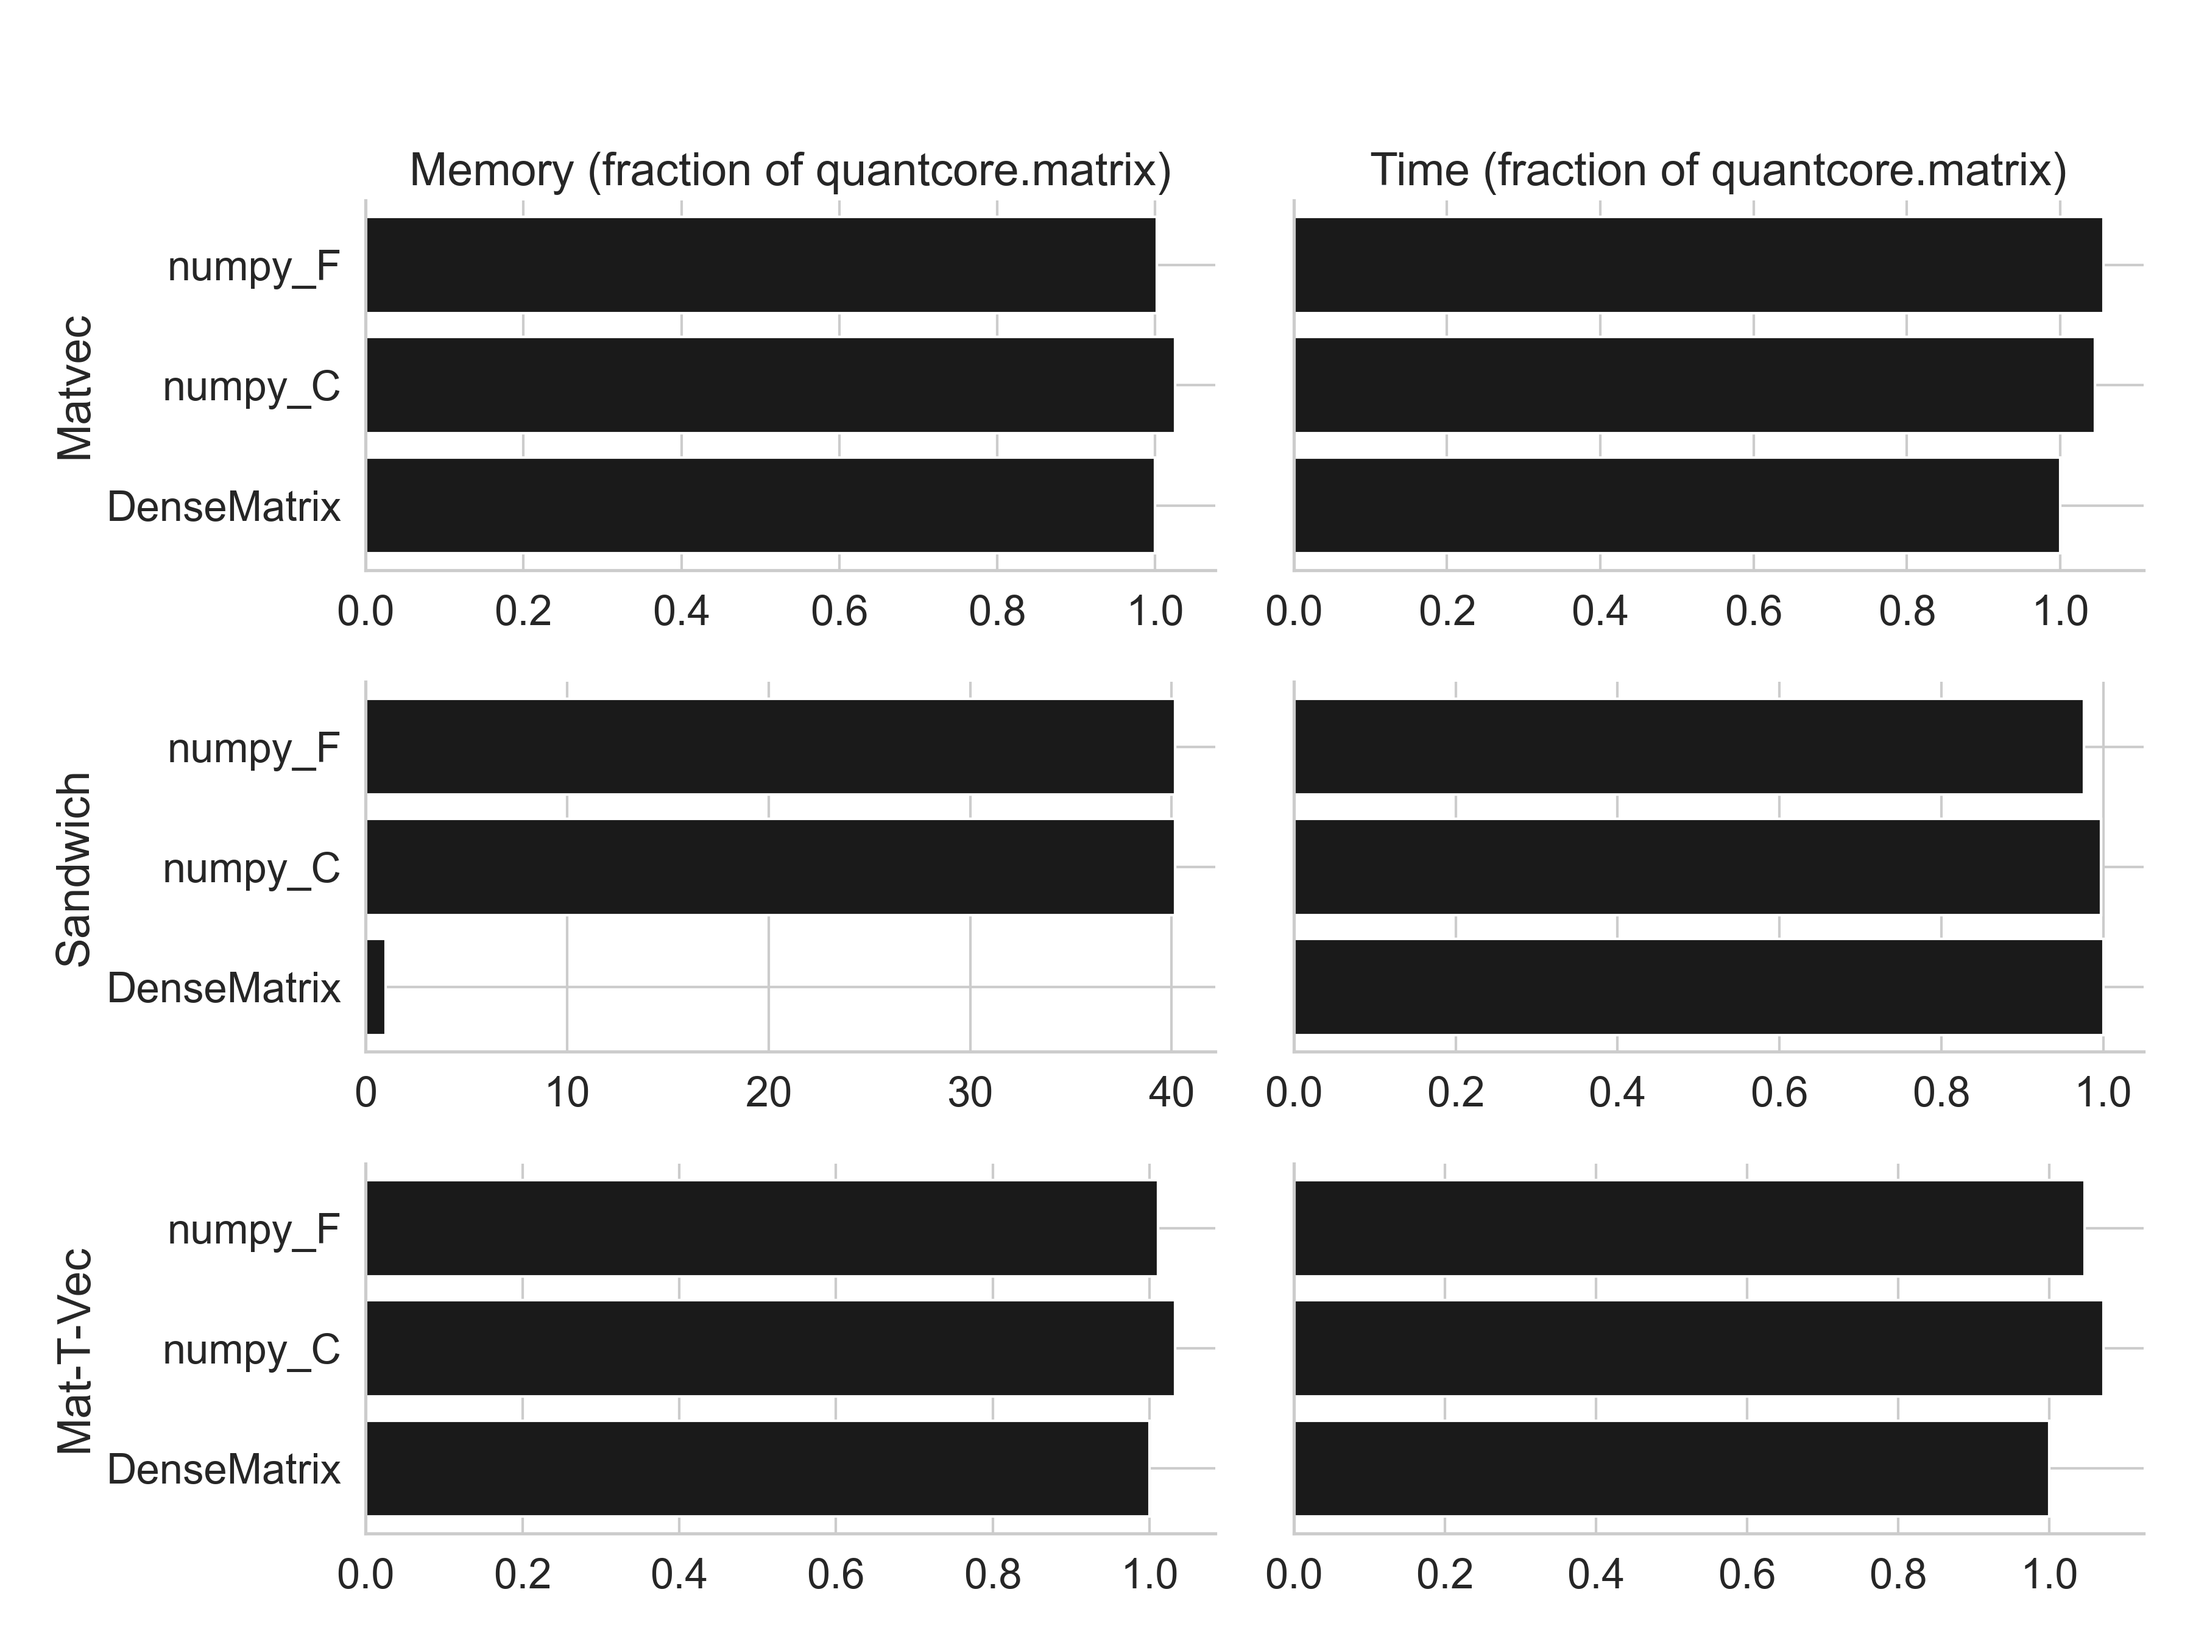
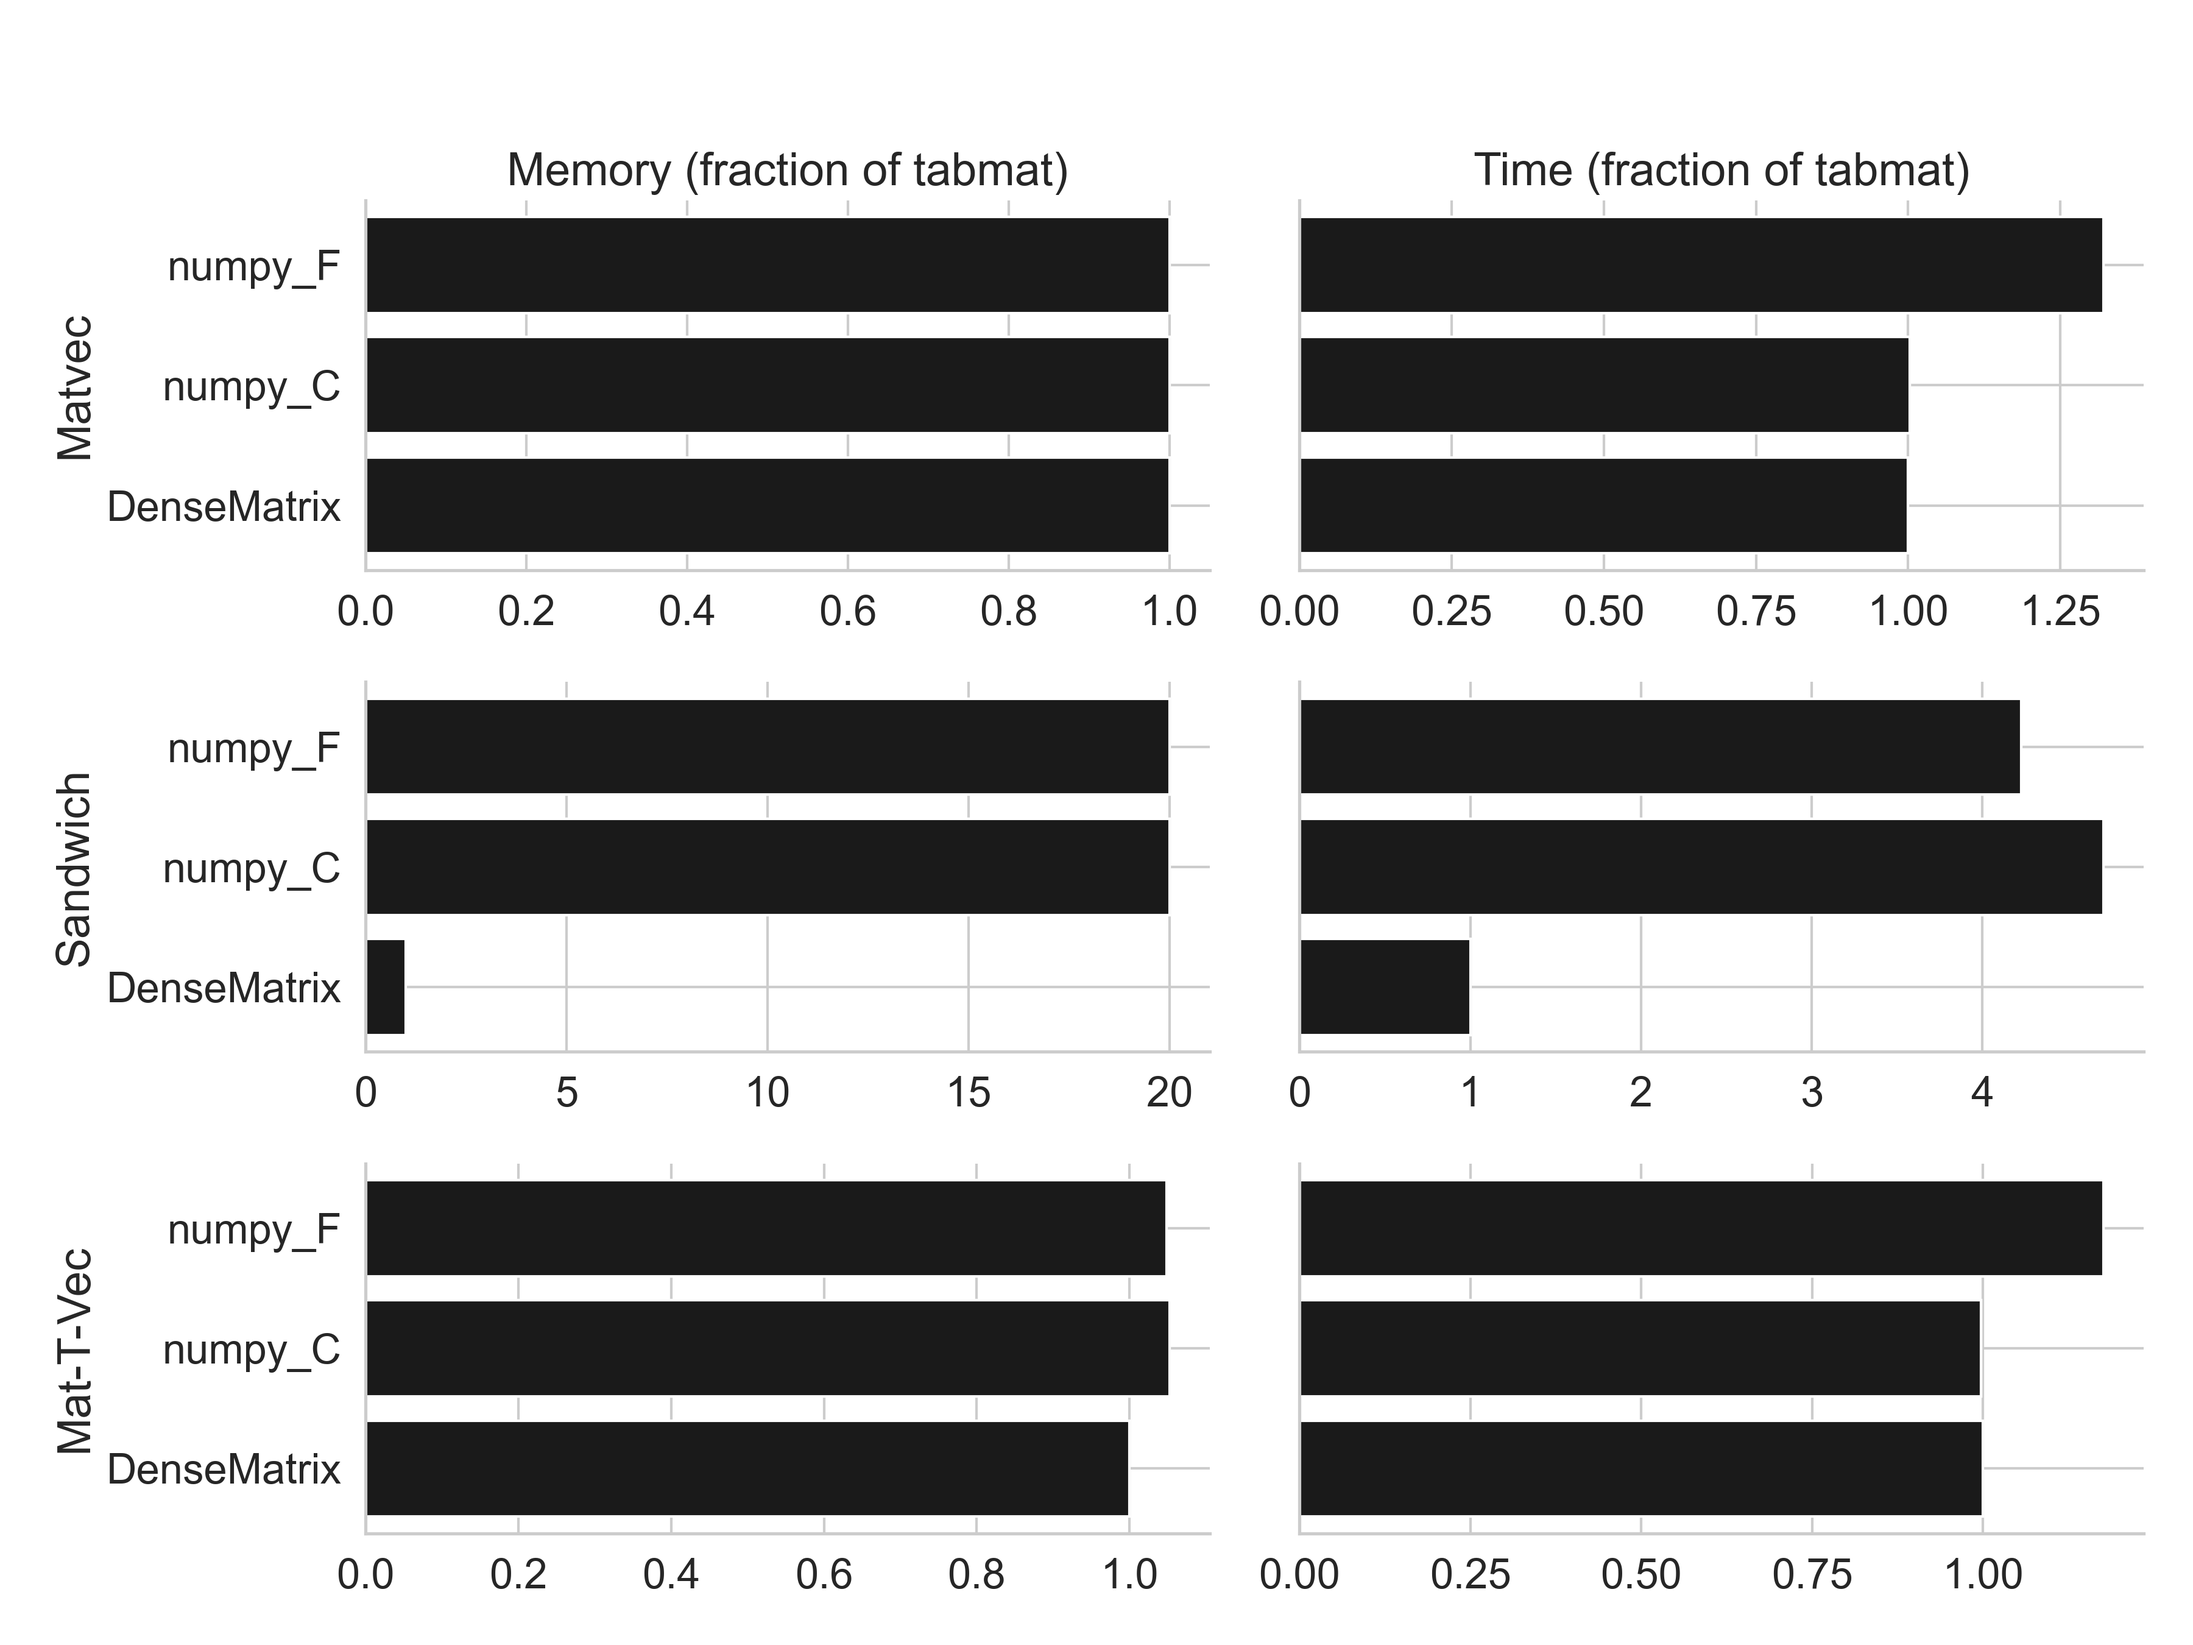
It makes more sense to benchmark on a fairly narrow dense matrix since that better represents the real world use case when in a SplitMatrix.

diff --git a/src/tabmat/benchmark/generate_matrices.py b/src/tabmat/benchmark/generate_matrices.py
@@ -1,3 +1,4 @@
+import os
 import pickle
 
 import click
@@ -91,7 +92,7 @@ def _get_matrix_path(name):
 def get_all_benchmark_matrices():
     """Get all matrices used in benchmarks."""
     return {
-        "dense": lambda: make_dense_matrices(int(4e4), 1000),
+        "dense": lambda: make_dense_matrices(int(4e6), 10),
         "sparse": lambda: make_sparse_matrices(int(4e5), int(1e2)),
         "sparse_narrow": lambda: make_sparse_matrices(int(3e6), 3),
         "sparse_wide": lambda: make_sparse_matrices(int(4e4), int(1e4)),
@@ -135,7 +136,9 @@ def generate_matrices(matrix_name: str) -> None:
     for name in benchmark_matrices:
         f = all_benchmark_matrices[name]
         mats = f()
-        with open(_get_matrix_path(name), "wb") as fname:
+        save_path = _get_matrix_path(name)
+        os.makedirs(os.path.dirname(save_path), exist_ok=True)
+        with open(save_path, "wb") as fname:
             pickle.dump(mats, fname)
 
 

diff --git a/src/tabmat/benchmark/main.py b/src/tabmat/benchmark/main.py
@@ -363,11 +363,13 @@ def run_all_benchmarks(
                 True,
             )
 
-        full_bench = pd.merge(
-            memory_bench[["operation", "storage", "memory"]],
-            time_bench[["operation", "storage", "time", "design"]],
-            on=["operation", "storage"],
-        )
+            full_bench = pd.merge(
+                memory_bench[["operation", "storage", "memory"]],
+                time_bench[["operation", "storage", "time", "design"]],
+                on=["operation", "storage"],
+            )
+        else:
+            full_bench = time_bench[["operation", "storage", "time", "design"]]
         print(full_bench)
 
         full_bench.to_csv(f"benchmark/data/{name}_bench.csv", index=False)

diff --git a/src/tabmat/benchmark/visualize_benchmarks.py b/src/tabmat/benchmark/visualize_benchmarks.py
@@ -22,8 +22,8 @@ sns.set(style="whitegrid", font_scale=1.5)
 # %config InlineBackend.figure_format='retina'
 
 # %%
-data_dir = "../../../../benchmark/data/"
-docs_dir = "../../../../docs/_static/"
+data_dir = "../../../benchmark/data/"
+docs_dir = "../../../docs/_static/"
 
 
 def data_path(name):  # noqa
@@ -207,5 +207,3 @@ plt.tight_layout()
 
 plt.savefig(docs_path("headline"), dpi=300)
 plt.show()
-
-# %%
